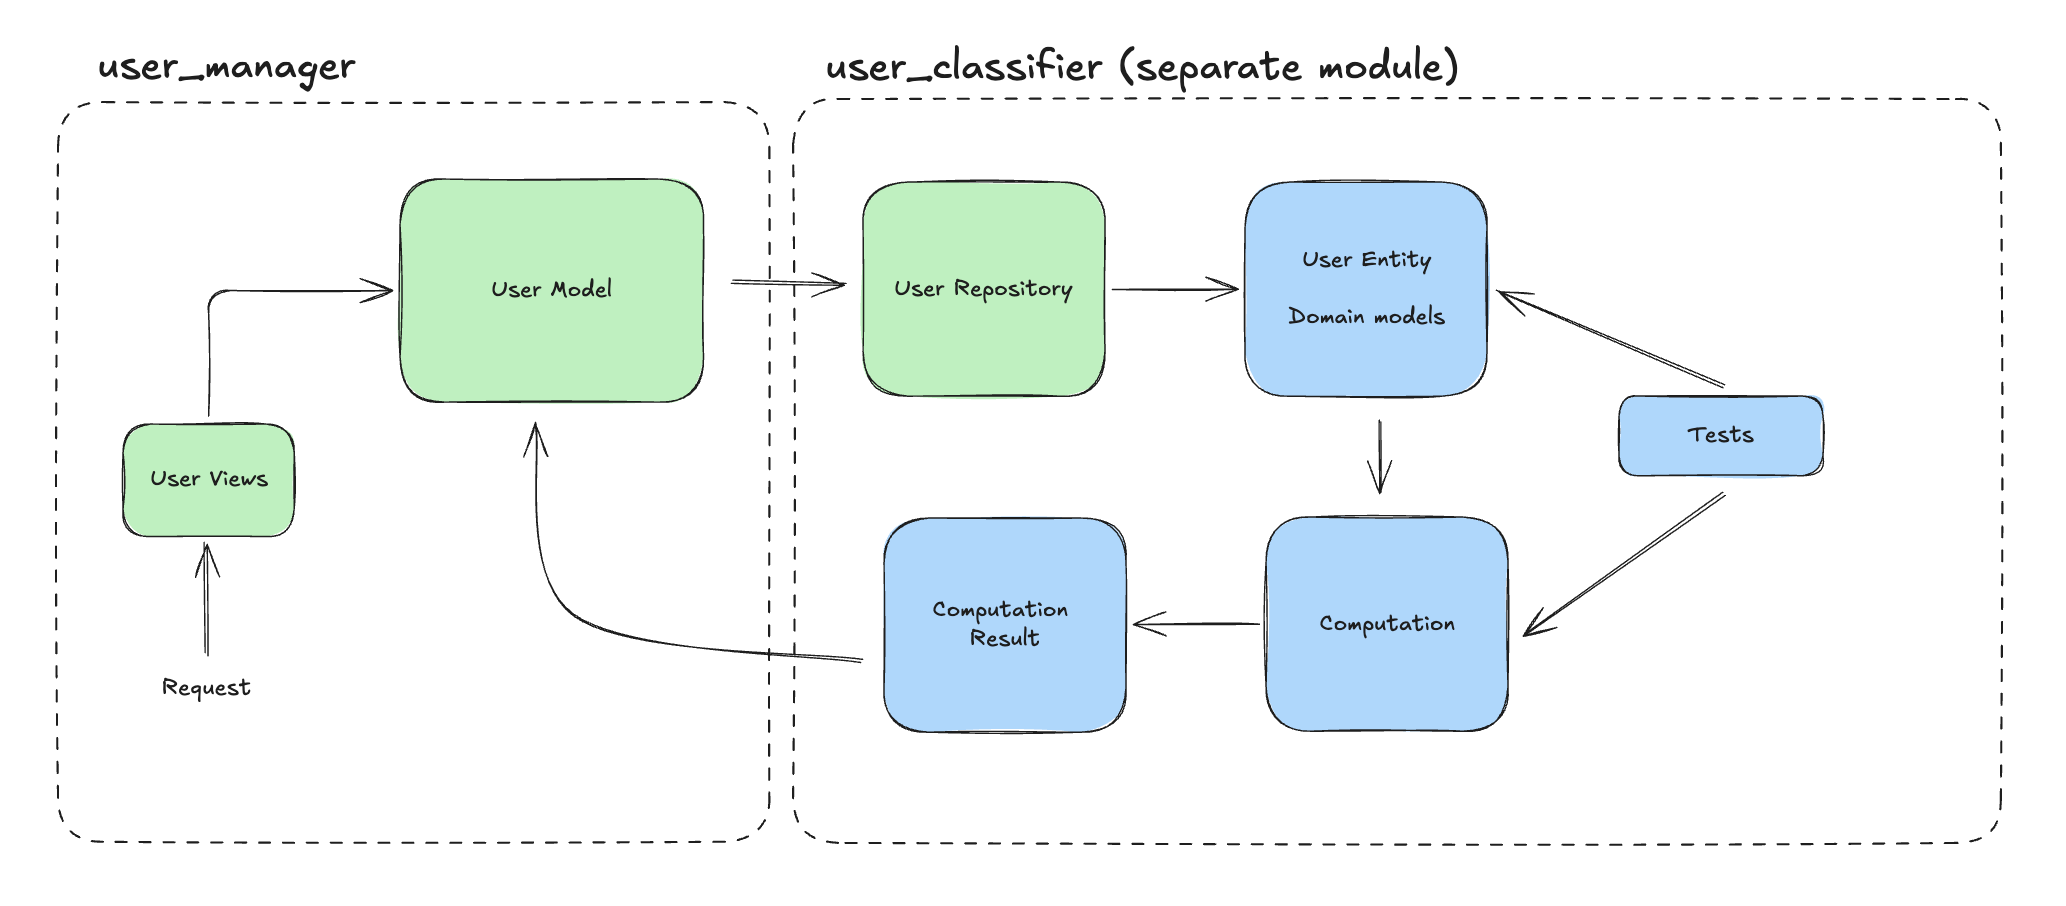
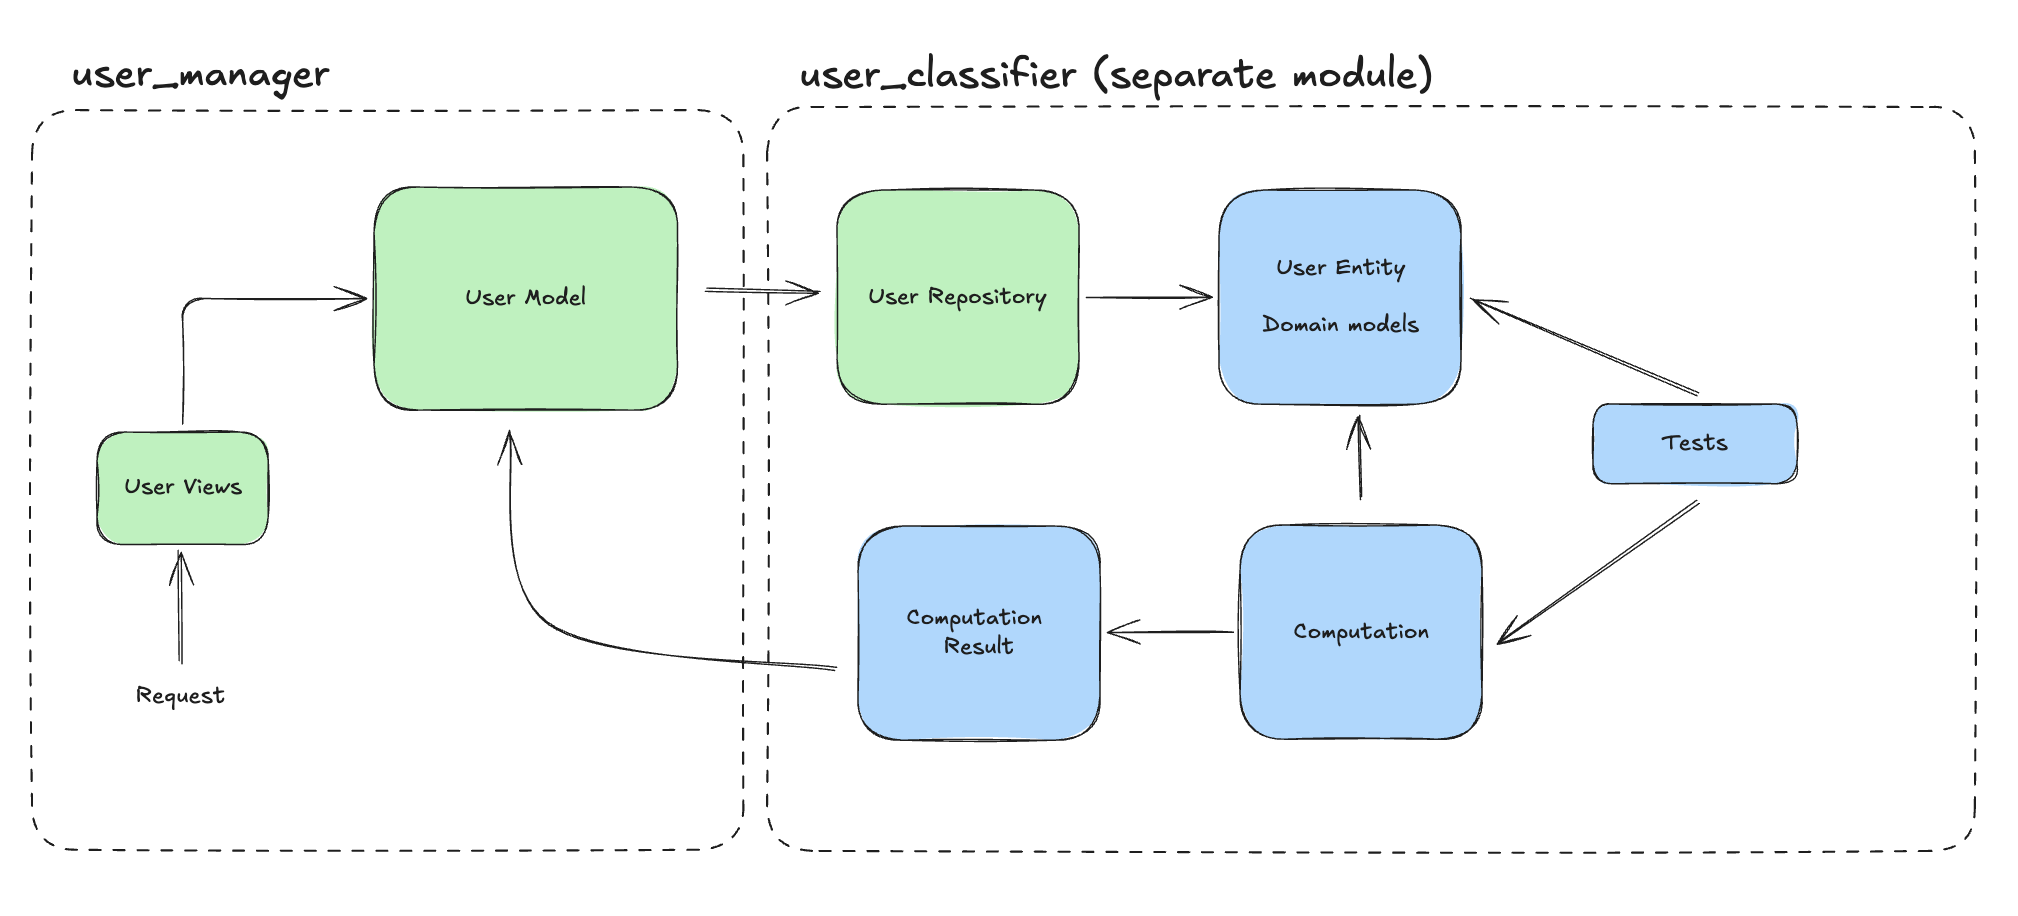
rewrite conclusion, fix typo, fix convoluted statement. Fix arrow direction

diff --git a/src/pages/posts/2025-09-29-learnings-from-using-clean-arch-django.md b/src/pages/posts/2025-09-29-learnings-from-using-clean-arch-django.md
@@ -21,7 +21,7 @@ Now, to be fair, 2 and 3 are pretty similar but I feel there is a nuanced differ
 ## Fat Models
 This is the approach you will be expected to take when you start reading the official Django reference for the first time. In this approach, business logic is coupled with framework code as the methods on the model classes handle the I/O as well as the logic. An often underrated benefit of this approach is it fits the Django philosphy and their slogan "...for perfectionists with deadlines". This is a quick way to get things up and running and build out your first feature using Django. I would recommend using this approach if you're just learning stuff or need to ship/prototype quickly. It gets the job done for what it's worth.
 
-The most common problem here is testing. It becomes too cumbersome waiting for Django to spin up a testing db, apply the hundreds of migrations, only to run a few tests. The central theme of testing is that you'll not really _feel_ like writing tests this way.
+The most common problem here is testing. Waiting for Django to set up a test database and run all the migrations just to execute a few tests is tedious and slow. As a result, you'll often find yourself unmotivated to write tests in this setup.
 
 ![Fat models](../../assets/img/fat_models.png)
 *Fat models*
@@ -44,7 +44,7 @@ class User(models.Model):
 _Key Takeaway: you're just starting out but not sure how far you'll take your project, use the fat-models approach for rapid prototyping and pair it with a good set of libraries to mitigate the pitfalls. You will have time to improve your codebase but that can always be done later._
 
 ## Clean Architecture
-This has been a surprisingly polarizing topic in my team. On the surface, clean architecture seems the perfect mitigation of all the pitfalls of Django. It's great for testability, making changes it easier, and it has inherently more reusability. It is perhaps the most common term a mid-level engineer could be expected to know about just as SOLID principles are for a new hire. It is ubiquitous and claims a substantial mindshare in the community. On the other hand, it is the complete antithesis of the fat-models approach and goes against the grain of the Django way of doing things. I will not explain on what it is but I will discuss how we have been using it in our team.
+This has been a surprisingly polarizing topic in my team. On the surface, clean architecture seems the perfect mitigation of all the pitfalls of Django. It's great for testability, making changes is easier, and it has inherently more reusability. It is perhaps the most common term a mid-level engineer could be expected to know about just as SOLID principles are for a new hire. It is ubiquitous and claims a substantial mindshare in the community. On the other hand, it is the complete antithesis of the fat-models approach and goes against the grain of the Django way of doing things. I will not explain on what it is but I will discuss how we have been using it in our team.
 
 We have been using Django for quite a while using the first approach. However, as we have grown, we have been begun using the Clean Architecture pattern for a few of our apps. What we _haven't_ done is make the clean architecture pattern the standard and use it in all new code. That would bring about the biggest pitfall that we found in this approach. At the risk of sounding extremely naive and short-sighted, it takes a while to set it up. One needs to be good at thinking about the long-term implications that would best help set up a new service. That being said, it has served us well _where needed_.
 
@@ -121,8 +121,9 @@ The `classify_user.py` file is self-contained and together with the tests, serve
 _Key Takeaway: Use the service layer approach if you're familiar with the idea of isolating business logic but just want to toe-dip without going the CA route. You will need to be careful with the dependencies but it's a good way to get started._
 
 ## Conclusion
-The take-away from this is that there is no one-size-fits-all approach to shipping software. It depends on the project, the team, and the goals of the project. The key is to be aware of the pros and cons of each approach and to choose the one that is most suitable for the project. A good engineer should never be a slave to a single approach. Here's a quick summary of the "it-depends" approach:
-
+So the TLDR is:
 - Fat models: Good for rapid prototyping and shipping code quickly.
 - Clean architecture: Good for complex business logic and long-term maintenance. Not good for rapid prototyping.
 - Service layer: Good for a middle ground between the two. If you need to develop a module in isolation, this is a good way to go.
+
+The take-away from this is that there is no one-size-fits-all approach to shipping software. It depends on the project, the team, and the goals of the project. The key is to be aware of the pros and cons of each approach and to choose the one that is most suitable for the project. A good engineer should never be a slave to a single approach.
